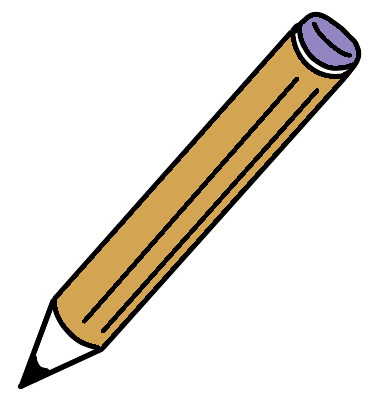
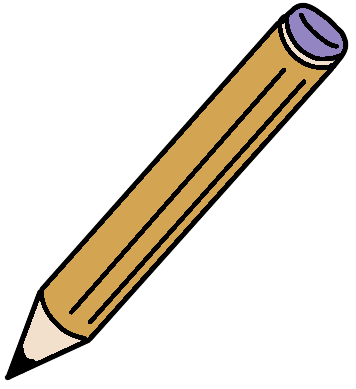
updated UI UX resources page styling

Changed region(s): [[0.0, 0.0, 0.9888, 0.9871]]

diff --git a/public-danny/ui-ux.html b/public-danny/ui-ux.html
@@ -16,9 +16,10 @@
         </div>
     </nav>
     <main>
-        <div id="welcome-box">
-            <h1 class="resource-header">UI &amp; UX RESOURCES</h1>
-            <p>Below you will find some open study rooms where you can find new study buddies. Or, if you want to find some resources to supplement your learning, check our the Resource Library</p>
+        <div id="resource-box">
+            <img class="resource-header-image" src="../assets/images/Pencil.png" alt="resources main image">
+            <h1 class="resource-header">UI &amp; UX DESIGN RESOURCES</h1>
+            <p>Everything you could ever want to know about user interfaces and experience is contained in the resource list below!</p>
         </div>
             <ul>
                 <li>
